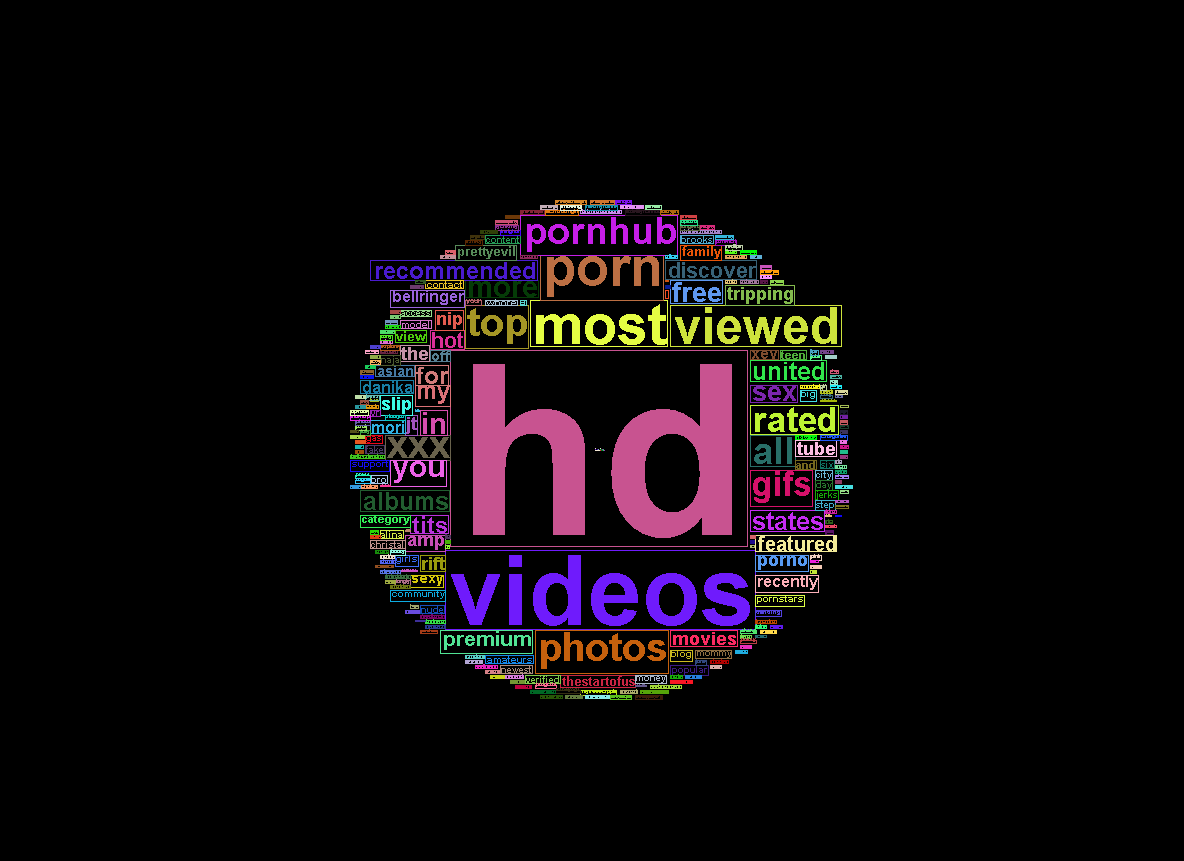
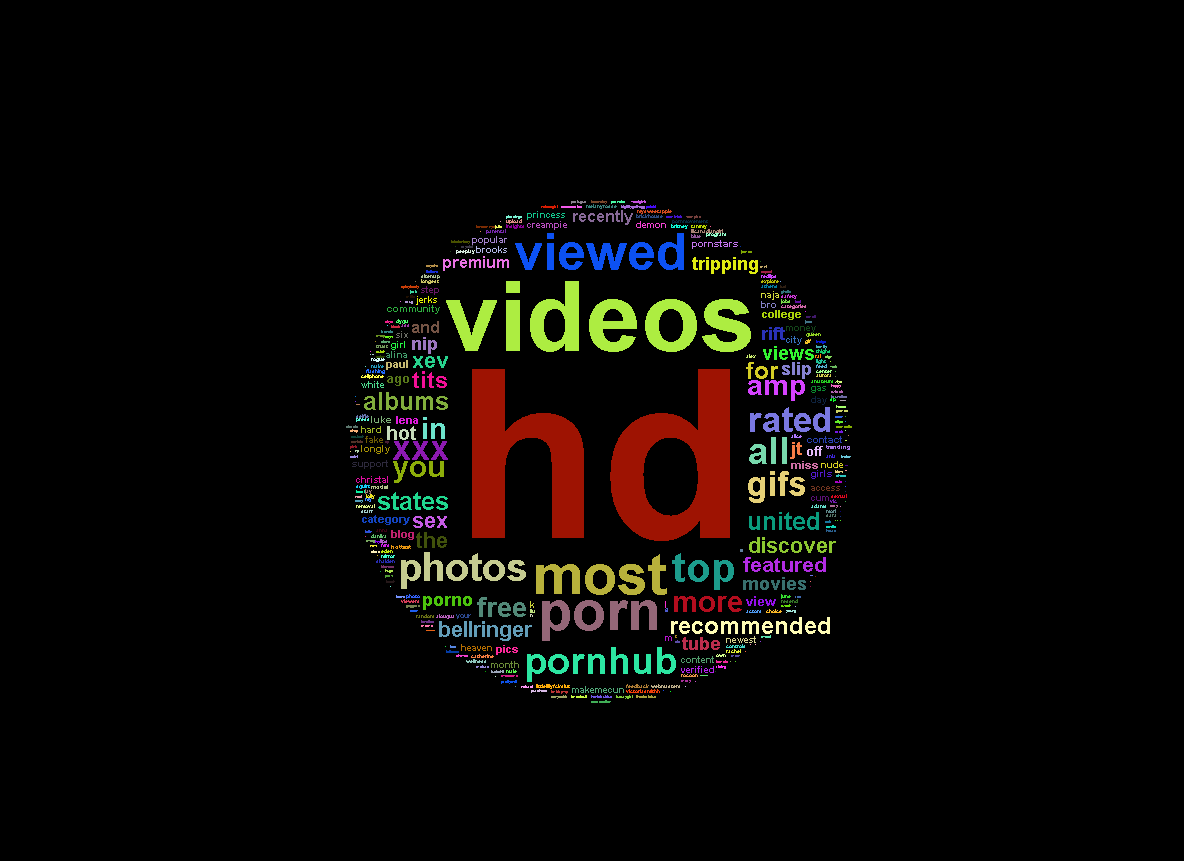
fix stuff

Changed region(s): [[0.2812, 0.2114, 0.7188, 0.8153]]

diff --git a/Tag-Cloud-Project/src/Display.java b/Tag-Cloud-Project/src/Display.java
@@ -27,19 +27,17 @@ public class Display extends Canvas  {
 		avgmax/=count;
 		System.out.println(words);
 		System.out.println("number of words: " + words.size());
-		System.out.println(sum);
 		setBackground(background);
 		
 		SCALE = ((double)avgmax/100.0);
 				//avg>15?avg/(max/avg):avg>=5.0?(avg/(avg*1.667)):max/250.0;
 				//avg>=5.0?(avg/(avg*1.667)):max/250.0;
-		System.out.println(avgmax +  " ");
-		System.out.println("scale " + SCALE);
+		System.out.println("scale: " + SCALE);
 	}
 	
 	// paint method
 	public void paint(Graphics w) {
-		ArrayList<Rectangle> drawnWords = new ArrayList<>();
+		ArrayList<Word> drawnWords = new ArrayList<>();
 		for(Word e : words) {
 			w.setFont(new Font(Font.SANS_SERIF, Font.BOLD, (int)(e.getWeight()/SCALE)));
 			//w.setFont(new Font(Font.SANS_SERIF, Font.BOLD, e.getWeight()));
@@ -56,13 +54,18 @@ public class Display extends Canvas  {
 			//System.out.println(height);
 			height = e.getWord().matches(".*[bdfijklt].*") ? height : height - fm.getDescent();
 			//System.out.println(height);
+			if(height<=0) { height = 1; }
+			if(width<=0) { width = 1; }
+			System.out.println(e.getWord() + " weight: " + e.getWeight() + " width: " + width + " height: " + height);
 			int finX = 0, finY = 0;
 			double mindis = 1e8;
-			Rectangle end = new Rectangle();
+			Word end = new Word();
 			for(int i = 0; i < Main.WIDTH; i+=5) {
 				for(int j = 0; j < Main.HEIGHT; j+=5) {
 					//if(Math.abs(Main.WIDTH/2 - i) < 100 && Math.abs(Main.HEIGHT/2-j) < 100) continue;
-					Rectangle pos = new Rectangle(i,j,width,height);
+					//Rectangle pos = new Rectangle(i,j,width,height);
+					Word pos = new Word(e.getWord(),e.getWeight());
+					pos.setDimensions(i, j, width, height);
 			        
 					boolean ok = true;
 					for(Rectangle item : drawnWords) {
@@ -99,7 +102,11 @@ public class Display extends Canvas  {
 				}
 			}
 			drawnWords.add(end);
-			w.drawRect(end.x, end.y, end.width, end.height);
+			
+			//draw the rectangle borders for each word
+			//w.drawRect(end.x, end.y, end.width, end.height);
+			
+			
 			//visited[end.x][end.y] = true; 
 			
 			int placeY = 0;

diff --git a/Tag-Cloud-Project/src/Word.java b/Tag-Cloud-Project/src/Word.java
@@ -8,7 +8,9 @@ public class Word extends Rectangle {
 	private String word;
 	private int weight;
 	private Color c;
-	
+	public Word() {
+		c = new Color((int)(Math.random()*0x1000000));
+	}
 	public Word(String word, int weight) {
 		this.word = word;
 		this.weight = weight;
@@ -34,6 +36,12 @@ public class Word extends Rectangle {
 		this.y = y;
 		this.width = w;
 		this.height = h;
+	}
+	public void setHeight(int n) {
+		this.height = n;
+	}
+	public void setWidth(int n) {
+		this.width = n;
 	}
 	public String toString() {
 		return word + ":" + weight;
